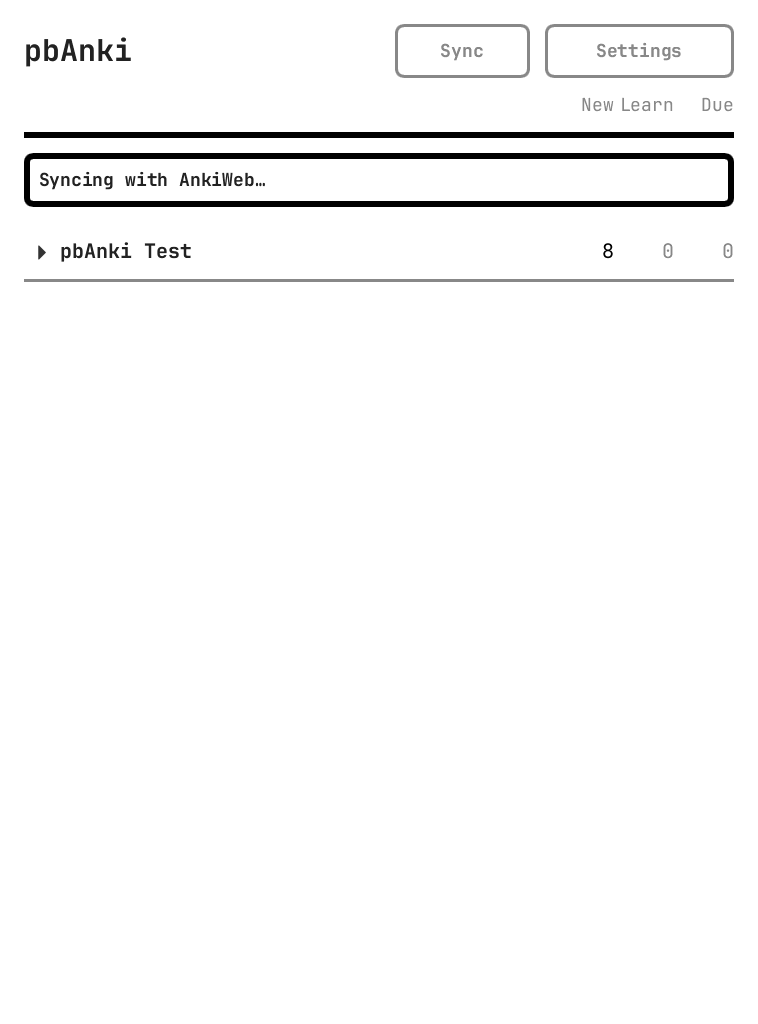
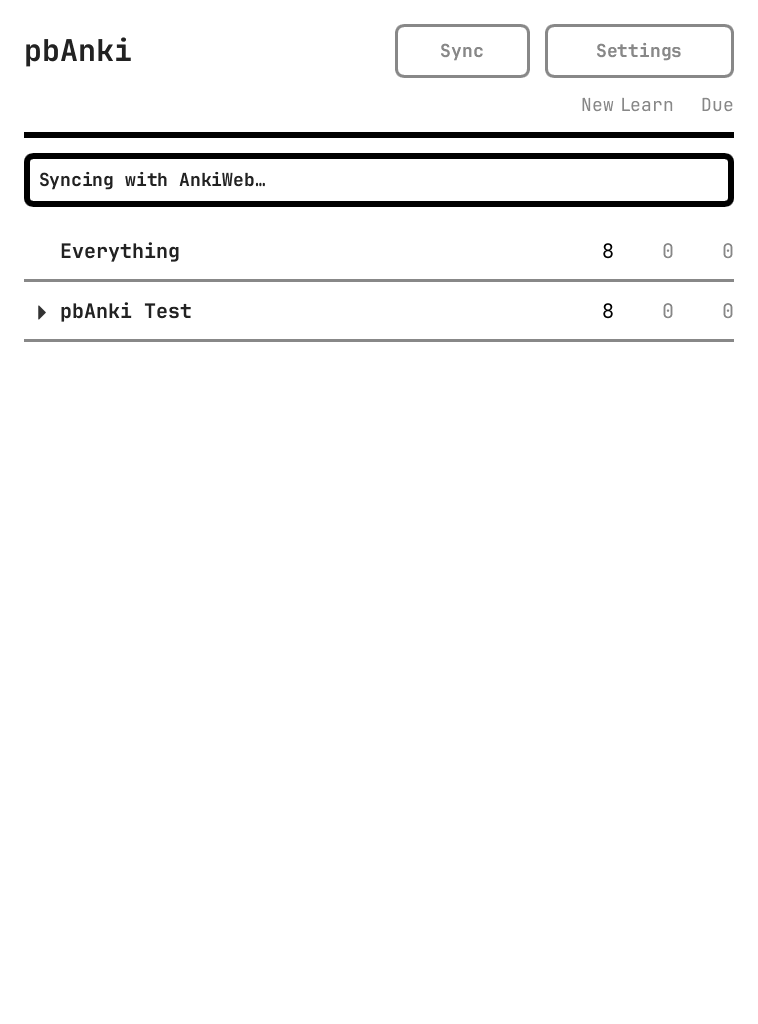
feat: study every deck from an Everything row at the top of the deck list

diff --git a/common/src/api.rs b/common/src/api.rs
@@ -5,12 +5,16 @@ use std::rc::Rc;
 use std::sync::Arc;
 use std::time::Instant;
 
+use anki::card::Card;
+use anki::collection::Collection;
 use anki::error::{OrNotFound, Result as AnkiResult};
+use anki::notes::Note;
 use anki::notetype::{Notetype, NotetypeKind};
 use anki::ops::Op;
 use anki::scheduler::answering::{CardAnswer, Rating};
 use anki::scheduler::states::SchedulingStates;
 use anki::timestamp::{TimestampMillis, TimestampSecs};
+use anki_proto::decks::DeckTreeNode;
 
 use crate::collection::{SharedCollection, open_collection};
 use crate::{CardNode, Config, Constants, DeckNode, DeckTree, LoginState, MainWindow};
@@ -456,16 +460,35 @@ pub fn update_deck_tree(session: &LearnSession) -> DeckTree {
         .lock()
         .deck_tree(Some(TimestampSecs::now()))
     {
-        Ok(deck_tree) => DeckTree {
-            new_total: deck_tree.new_count as i32,
-            learn_total: deck_tree.learn_count as i32,
-            due_total: deck_tree.review_count as i32,
-            deck_nodes: crate::utils::flatten_tree(&deck_tree).into(),
-        },
+        Ok(deck_tree) => {
+            let deck_nodes = crate::utils::flatten_tree(&deck_tree);
+            deck_nodes.insert(0, everything_deck(&deck_tree));
+            DeckTree {
+                new_total: deck_tree.new_count as i32,
+                learn_total: deck_tree.learn_count as i32,
+                due_total: deck_tree.review_count as i32,
+                deck_nodes: deck_nodes.into(),
+            }
+        }
         Err(e) => {
             eprintln!("Failed to load deck tree: {e}");
             DeckTree::default()
         }
+    }
+}
+
+/// Id of the "Everything" row, which studies every top-level deck in turn.
+pub const EVERYTHING_ID: i64 = 0;
+
+fn everything_deck(deck_tree: &DeckTreeNode) -> DeckNode {
+    DeckNode {
+        id: EVERYTHING_ID,
+        name: "Everything".into(),
+        level: 1,
+        new: deck_tree.new_count as i32,
+        learn: deck_tree.learn_count as i32,
+        due: deck_tree.review_count as i32,
+        ..Default::default()
     }
 }
 
@@ -537,15 +560,22 @@ fn is_type_in(notetype: &Notetype, template_idx: u16) -> bool {
     template.is_some_and(|t| t.config.q_format.contains("{{type:"))
 }
 
-fn load_next_card(
-    session: &LearnSession,
-    deck: DeckNode,
-    grid: Grid,
-) -> AnkiResult<Option<CardNode>> {
-    let mut col = session.collection.lock();
-    col.set_current_deck(anki::decks::DeckId(deck.id))?;
+/// The card at the front of the study queue.
+struct NextCard {
+    card: Card,
+    states: SchedulingStates,
+    note: Note,
+    notetype: Arc<Notetype>,
+    new: usize,
+    learn: usize,
+    due: usize,
+}
+
+/// The next card of a deck and its children.
+fn queued_card(col: &mut Collection, deck_id: i64) -> AnkiResult<Option<NextCard>> {
+    col.set_current_deck(anki::decks::DeckId(deck_id))?;
     // Bury type-in cards until one pbAnki can show is at the front
-    let (queued_cards, card, note, notetype) = loop {
+    loop {
         let queued_cards = col.get_queued_cards(1, false)?;
         let Some(card) = queued_cards.cards.first().cloned() else {
             return Ok(None);
@@ -558,22 +588,75 @@ fn load_next_card(
             .get_notetype(note.notetype_id)?
             .or_not_found(note.notetype_id)?;
         if !is_type_in(&notetype, card.card.template_idx()) {
-            break (queued_cards, card, note, notetype);
+            return Ok(Some(NextCard {
+                card: card.card,
+                states: card.states,
+                note,
+                notetype,
+                new: queued_cards.new_count,
+                learn: queued_cards.learning_count,
+                due: queued_cards.review_count,
+            }));
         }
         col.bury_or_suspend_cards(
             &[card.card.id()],
             anki_proto::scheduler::bury_or_suspend_cards_request::Mode::BuryUser,
         )?;
+    }
+}
+
+/// The next card of the first top-level deck with cards to study, in list
+/// order, with the counts of all decks.
+fn everything_card(col: &mut Collection) -> AnkiResult<Option<NextCard>> {
+    let tree = col.deck_tree(Some(TimestampSecs::now()))?;
+    for deck in &tree.children {
+        if deck.new_count + deck.learn_count + deck.review_count == 0 {
+            continue;
+        }
+        if let Some(next) = queued_card(col, deck.deck_id)? {
+            return Ok(Some(NextCard {
+                new: tree.new_count as usize,
+                learn: tree.learn_count as usize,
+                due: tree.review_count as usize,
+                ..next
+            }));
+        }
+    }
+    Ok(None)
+}
+
+fn load_next_card(
+    session: &LearnSession,
+    deck: DeckNode,
+    grid: Grid,
+) -> AnkiResult<Option<CardNode>> {
+    let mut col = session.collection.lock();
+    let next = if deck.id == EVERYTHING_ID {
+        everything_card(&mut col)?
+    } else {
+        queued_card(&mut col, deck.id)?
+    };
+    let Some(NextCard {
+        card,
+        states,
+        note,
+        notetype,
+        new,
+        learn,
+        due,
+    }) = next
+    else {
+        return Ok(None);
     };
 
     *session.start_time.borrow_mut() = Some(Instant::now());
-    *session.states.borrow_mut() = Some(card.states.clone());
+    *session.states.borrow_mut() = Some(states.clone());
 
     let durations = col
-        .describe_next_states(&card.states)
+        .describe_next_states(&states)
         .unwrap_or_else(|_| vec![String::new(); 4]);
 
-    let rendered = col.render_existing_card(card.card.id(), false, false)?;
+    let rendered = col.render_existing_card(card.id(), false, false)?;
     let context = crate::inbox::CardContext::from_note(&notetype, &note);
     drop(col);
 
@@ -589,11 +672,11 @@ fn load_next_card(
     let answer_start = crate::render::first_rule_page(&answer_pages).unwrap_or(0);
 
     let card_node = CardNode {
-        id: card.card.id().0,
+        id: card.id().0,
         deck: DeckNode {
-            new: queued_cards.new_count as i32,
-            learn: queued_cards.learning_count as i32,
-            due: queued_cards.review_count as i32,
+            new: new as i32,
+            learn: learn as i32,
+            due: due as i32,
             ..deck
         },
         question: crate::utils::pages_model(crate::render::layout(
@@ -623,8 +706,9 @@ fn load_next_card(
 pub fn undo_rating(session: &LearnSession, deck: DeckNode, grid: Grid) -> Option<CardNode> {
     let undone = {
         let mut col = session.collection.lock();
-        // Type-in cards buried after the rating come off the undo stack first
-        while col.undo_status().undo == Some(Op::Bury) {
+        // Type-in cards buried and deck switches after the rating come off
+        // the undo stack first
+        while matches!(col.undo_status().undo, Some(Op::Bury | Op::SetCurrentDeck)) {
             if col.undo().is_err() {
                 break;
             }
@@ -809,8 +893,8 @@ mod tests {
         add_basic_note(&session, "<b>Front</b> side", "Back side");
 
         let tree = update_deck_tree(&session);
-        assert_eq!(tree.deck_nodes.row_count(), 1);
-        assert_eq!(tree.deck_nodes.row_data(0).unwrap().new, 1);
+        assert_eq!(tree.deck_nodes.row_count(), 2);
+        assert_eq!(tree.deck_nodes.row_data(1).unwrap().new, 1);
 
         let card = next_card(&session, default_deck(), GRID);
         assert_ne!(card.id, -1);
@@ -826,11 +910,47 @@ mod tests {
         assert_eq!(
             update_deck_tree(&session)
                 .deck_nodes
-                .row_data(0)
+                .row_data(1)
                 .unwrap()
                 .new,
             0
         );
+    }
+
+    #[test]
+    fn everything_studies_each_top_level_deck_in_turn() {
+        let dir = tempfile::tempdir().unwrap();
+        let session = session_in(dir.path());
+        add_basic_note(&session, "First", "1");
+        {
+            let mut col = session.collection.lock();
+            let deck = col.get_or_create_normal_deck("Second").unwrap();
+            let notetype = col.get_notetype_by_name("Basic").unwrap().unwrap();
+            let mut note = notetype.new_note();
+            note.set_field(0, "Second").unwrap();
+            note.set_field(1, "2").unwrap();
+            col.add_note(&mut note, deck.id).unwrap();
+        }
+
+        let everything = update_deck_tree(&session).deck_nodes.row_data(0).unwrap();
+        assert_eq!(everything.id, EVERYTHING_ID);
+        assert_eq!(everything.name, "Everything");
+        assert_eq!(everything.new, 2);
+
+        let card = next_card(&session, everything.clone(), GRID);
+        assert_eq!(texts(&card.question), vec!["First"]);
+        assert_eq!(card.deck.new, 2);
+        assert_eq!(card.deck.name, "Everything");
+
+        let card = rate_card(&session, 3, everything.clone(), GRID);
+        assert_eq!(texts(&card.question), vec!["Second"]);
+        assert_eq!(card.deck.new, 1);
+
+        let card = undo_rating(&session, everything.clone(), GRID).unwrap();
+        assert_eq!(texts(&card.question), vec!["First"]);
+
+        rate_card(&session, 3, everything.clone(), GRID);
+        assert_eq!(rate_card(&session, 3, everything, GRID).id, -1);
     }
 
     #[test]

diff --git a/README.md b/README.md
@@ -77,7 +77,7 @@ Cards wait in an inbox file until pbAnki next opens, then land in a sub-deck per
 
 ### A deck list you can read at a glance
 
-Counts are labelled, due cards are bold, zeros are grey, and every row is a full-width tap target. Collapsing a deck hides all of its sub-decks and is saved in the collection, as in desktop Anki.
+Counts are labelled, due cards are bold, zeros are grey, and every row is a full-width tap target. Collapsing a deck hides all of its sub-decks and is saved in the collection, as in desktop Anki. **Everything**, at the top, studies every deck: it works through the top-level decks in list order, each with its own daily limits.
 
 <table>
   <tr>
@@ -86,7 +86,7 @@ Counts are labelled, due cards are bold, zeros are grey, and every row is a full
   </tr>
   <tr>
     <td><img src="docs/screenshots/before/decks_expanded.png" width="300" alt="Original deck list"></td>
-    <td><img src="docs/screenshots/decks_expanded.png" width="300" alt="New deck list with labelled columns"></td>
+    <td><img src="docs/screenshots/decks_expanded.png" width="300" alt="New deck list with labelled columns and an Everything row"></td>
   </tr>
 </table>
 
